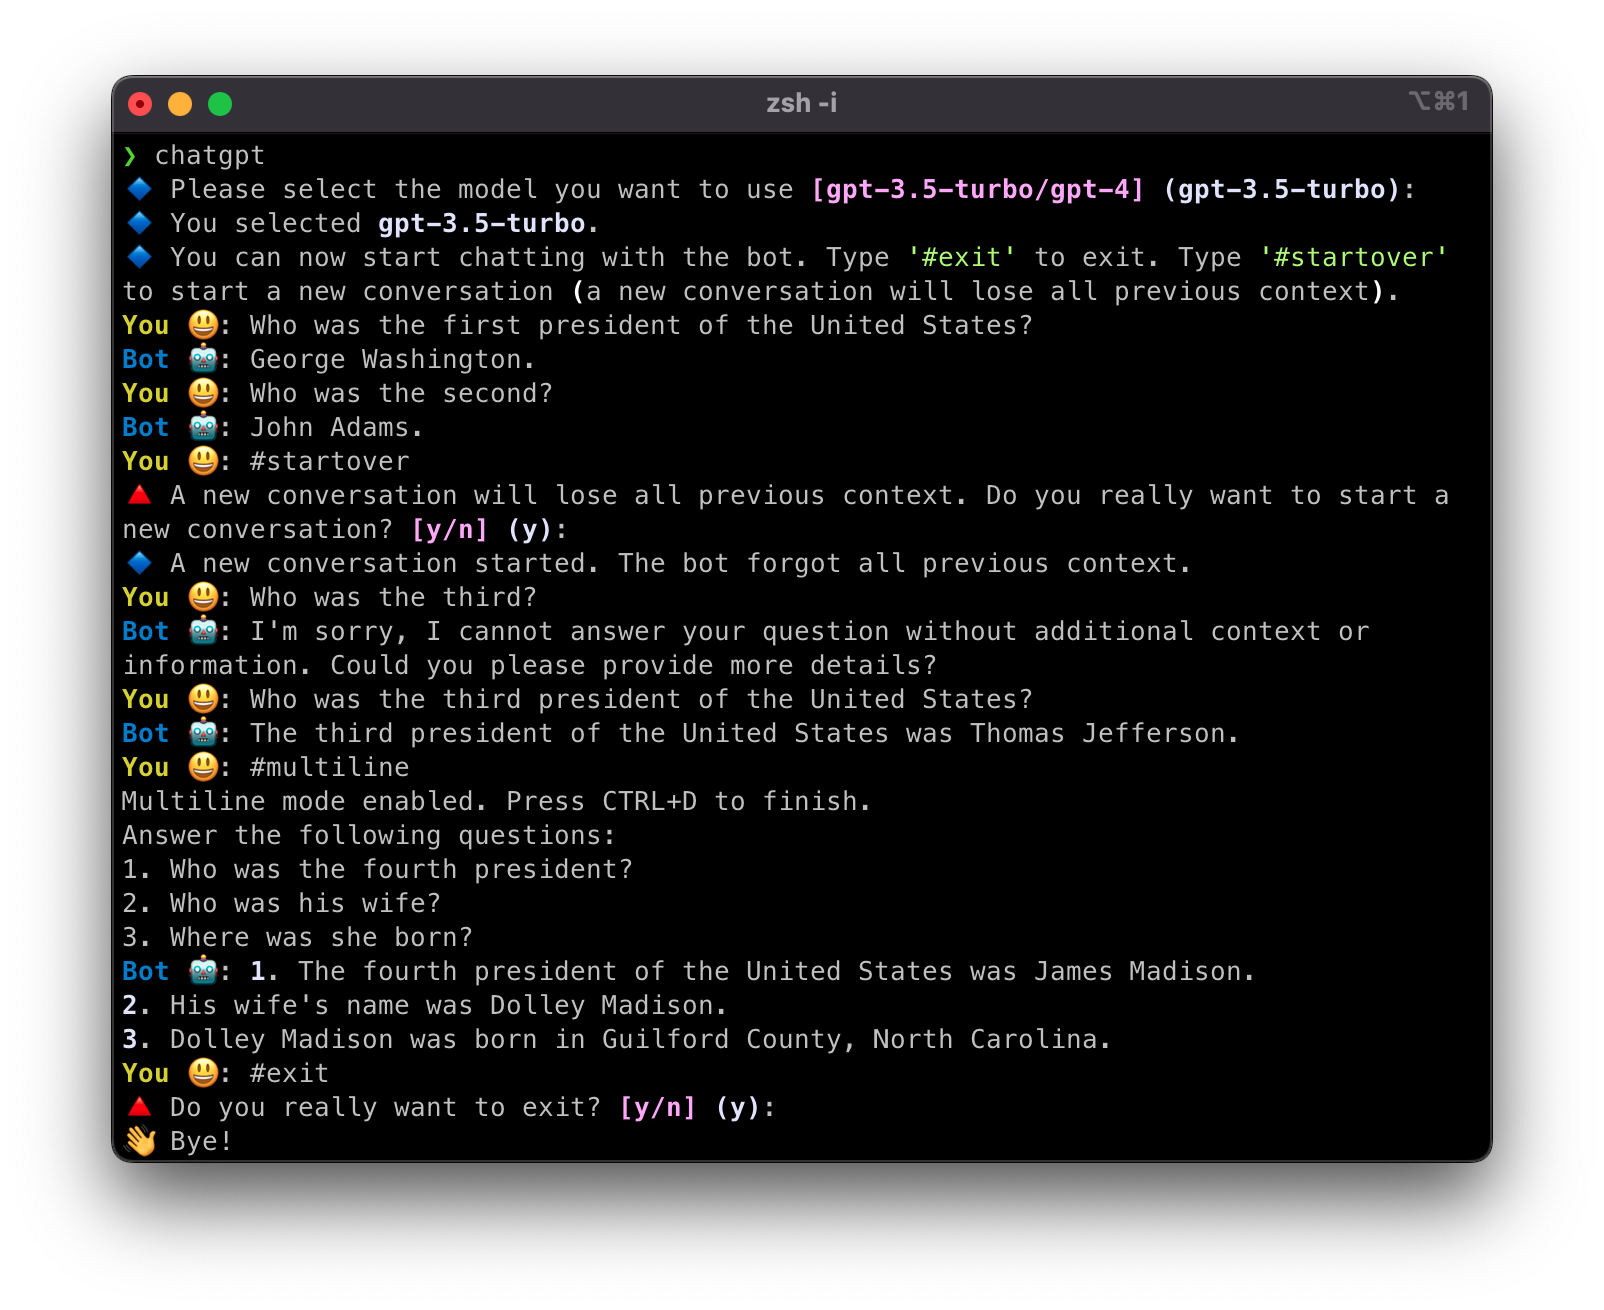
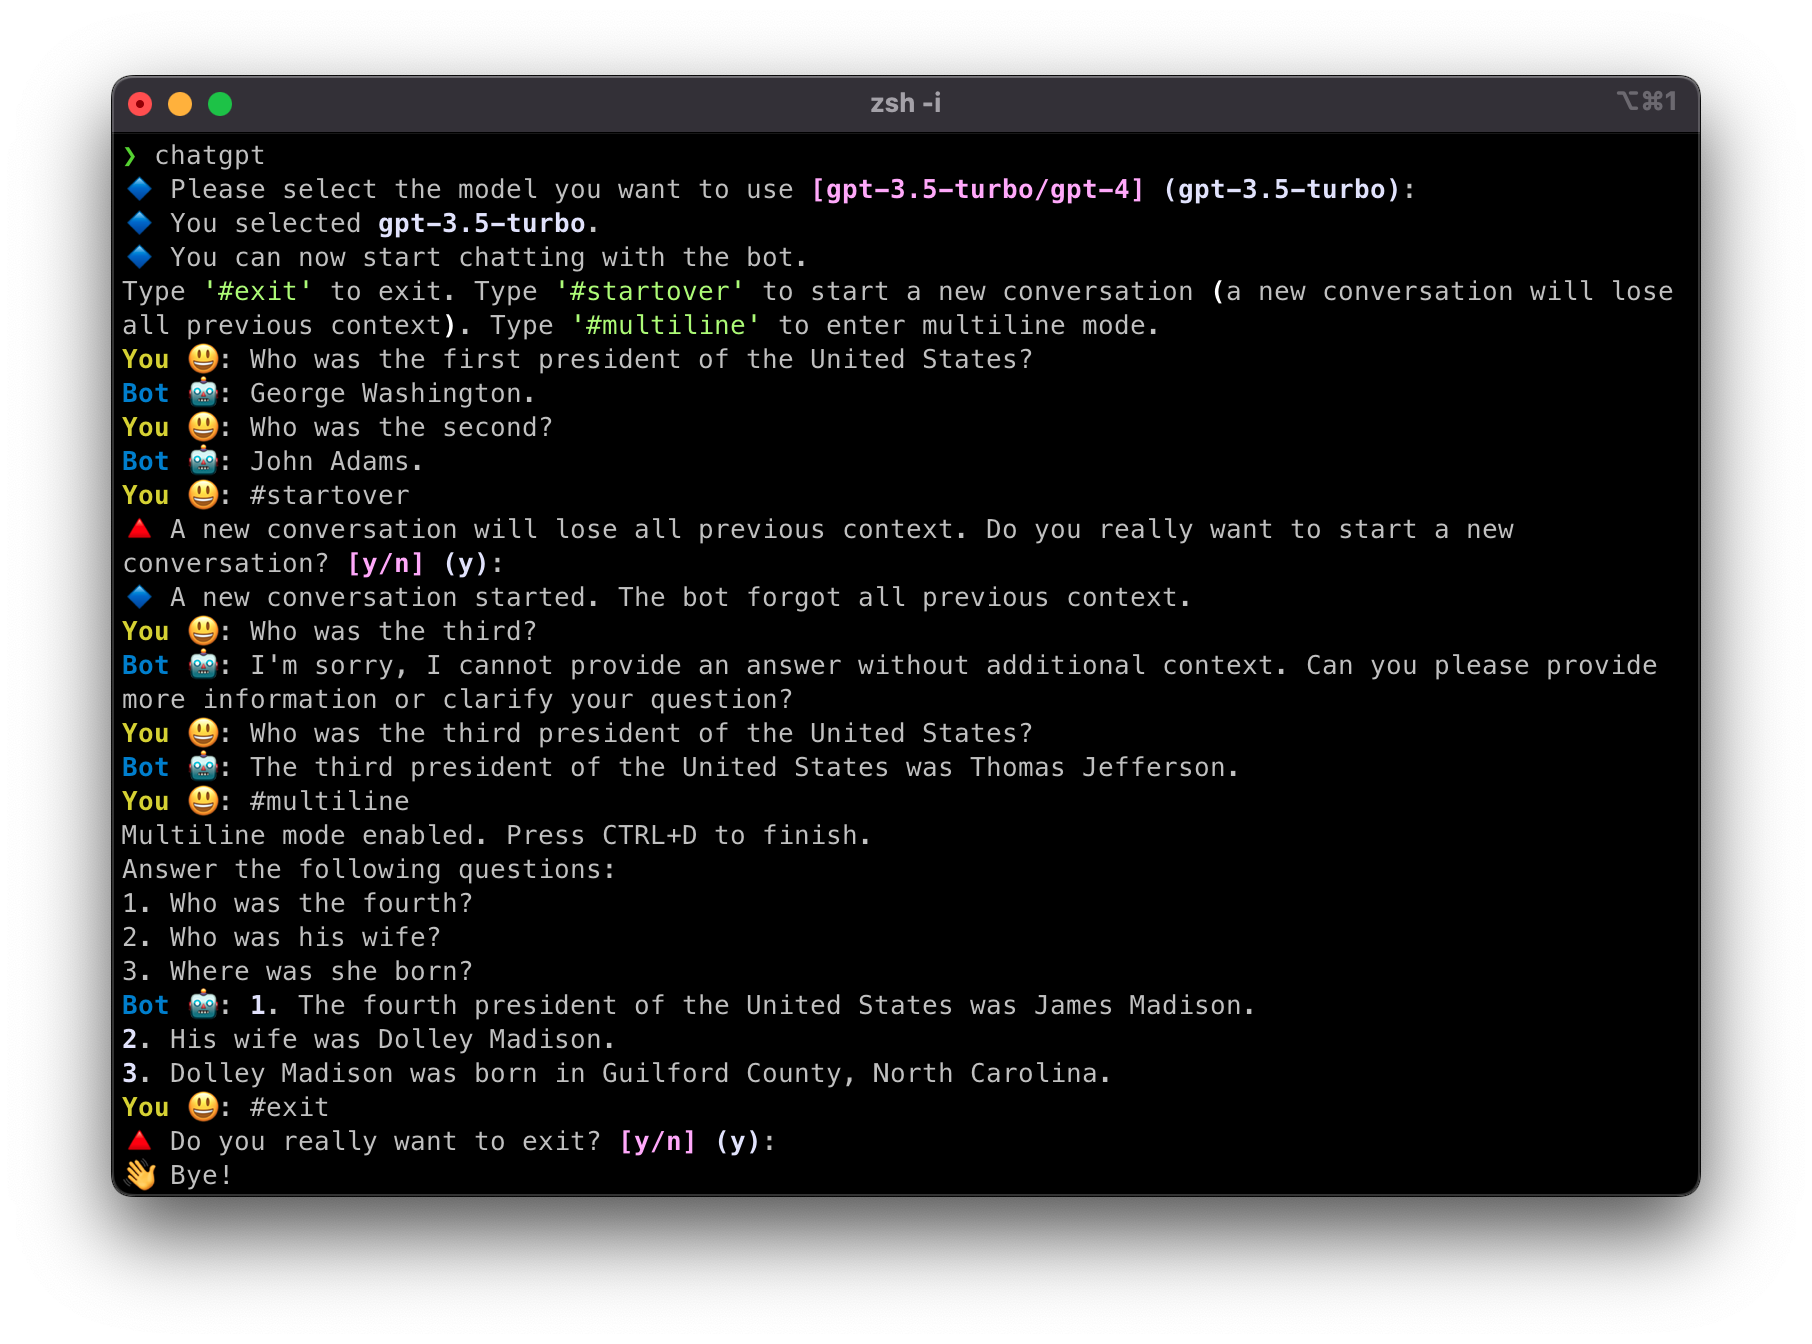
multiline instruction

Changed region(s): [[0.0623, 0.0305, 0.9663, 0.916]]

diff --git a/chatgpt_cli/main.py b/chatgpt_cli/main.py
@@ -119,9 +119,10 @@ def chat(
     # welcome console message
     if not has_previous_chat:
         print(
-            f"{INFO_PREFIX} You can now start chatting with the bot. "
+            f"{INFO_PREFIX} You can now start chatting with the bot. \n"
             f"Type '{ChatExitReason.EXIT.value}' to exit. "
-            f"Type '{ChatExitReason.START_OVER.value}' to start a new conversation (a new conversation will lose all previous context)."
+            f"Type '{ChatExitReason.START_OVER.value}' to start a new conversation (a new conversation will lose all previous context). "
+            f"Type '#multiline' to enter multiline mode."
         )
     else:
         print(
